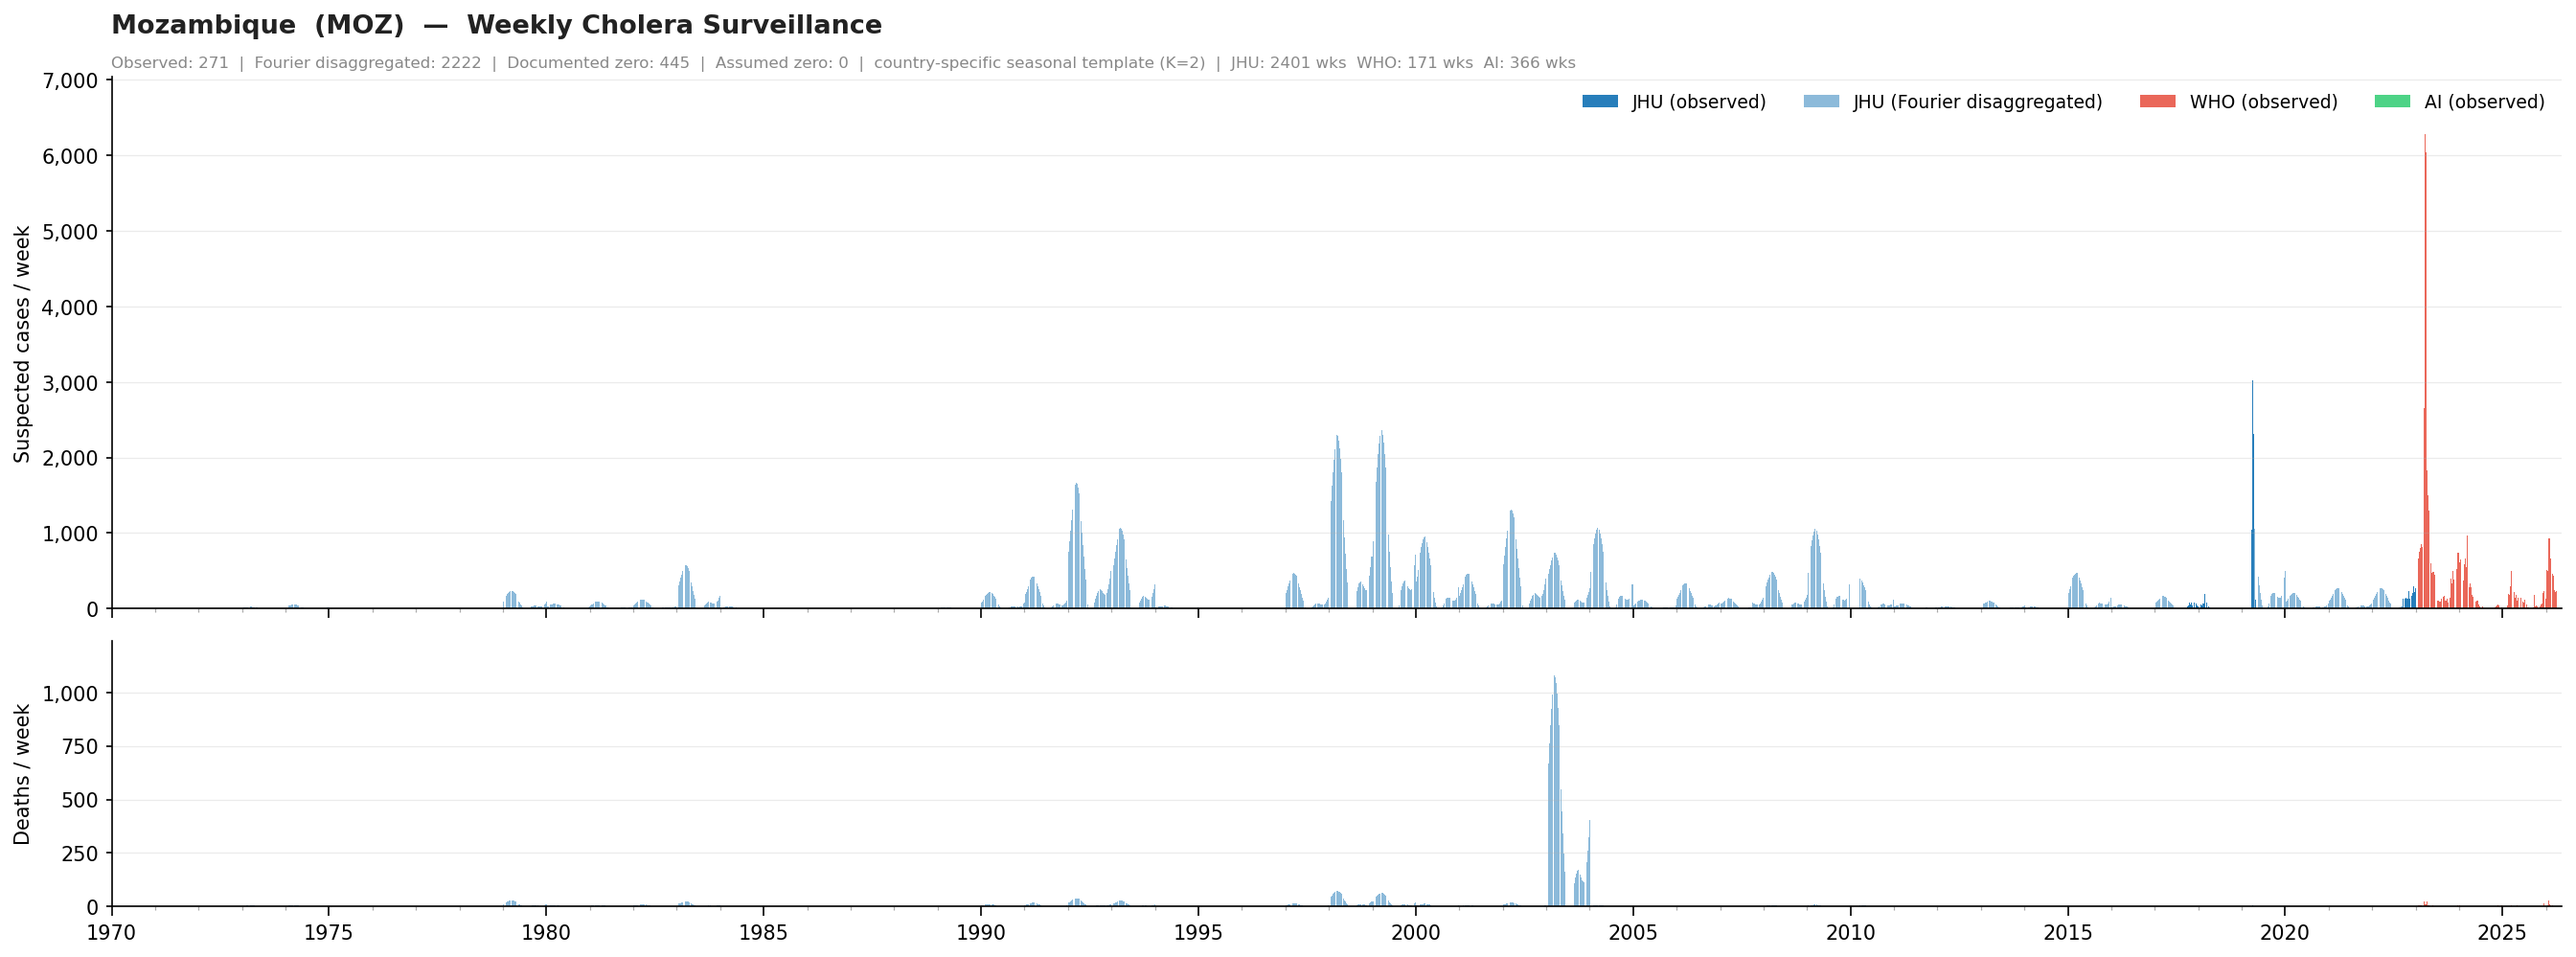
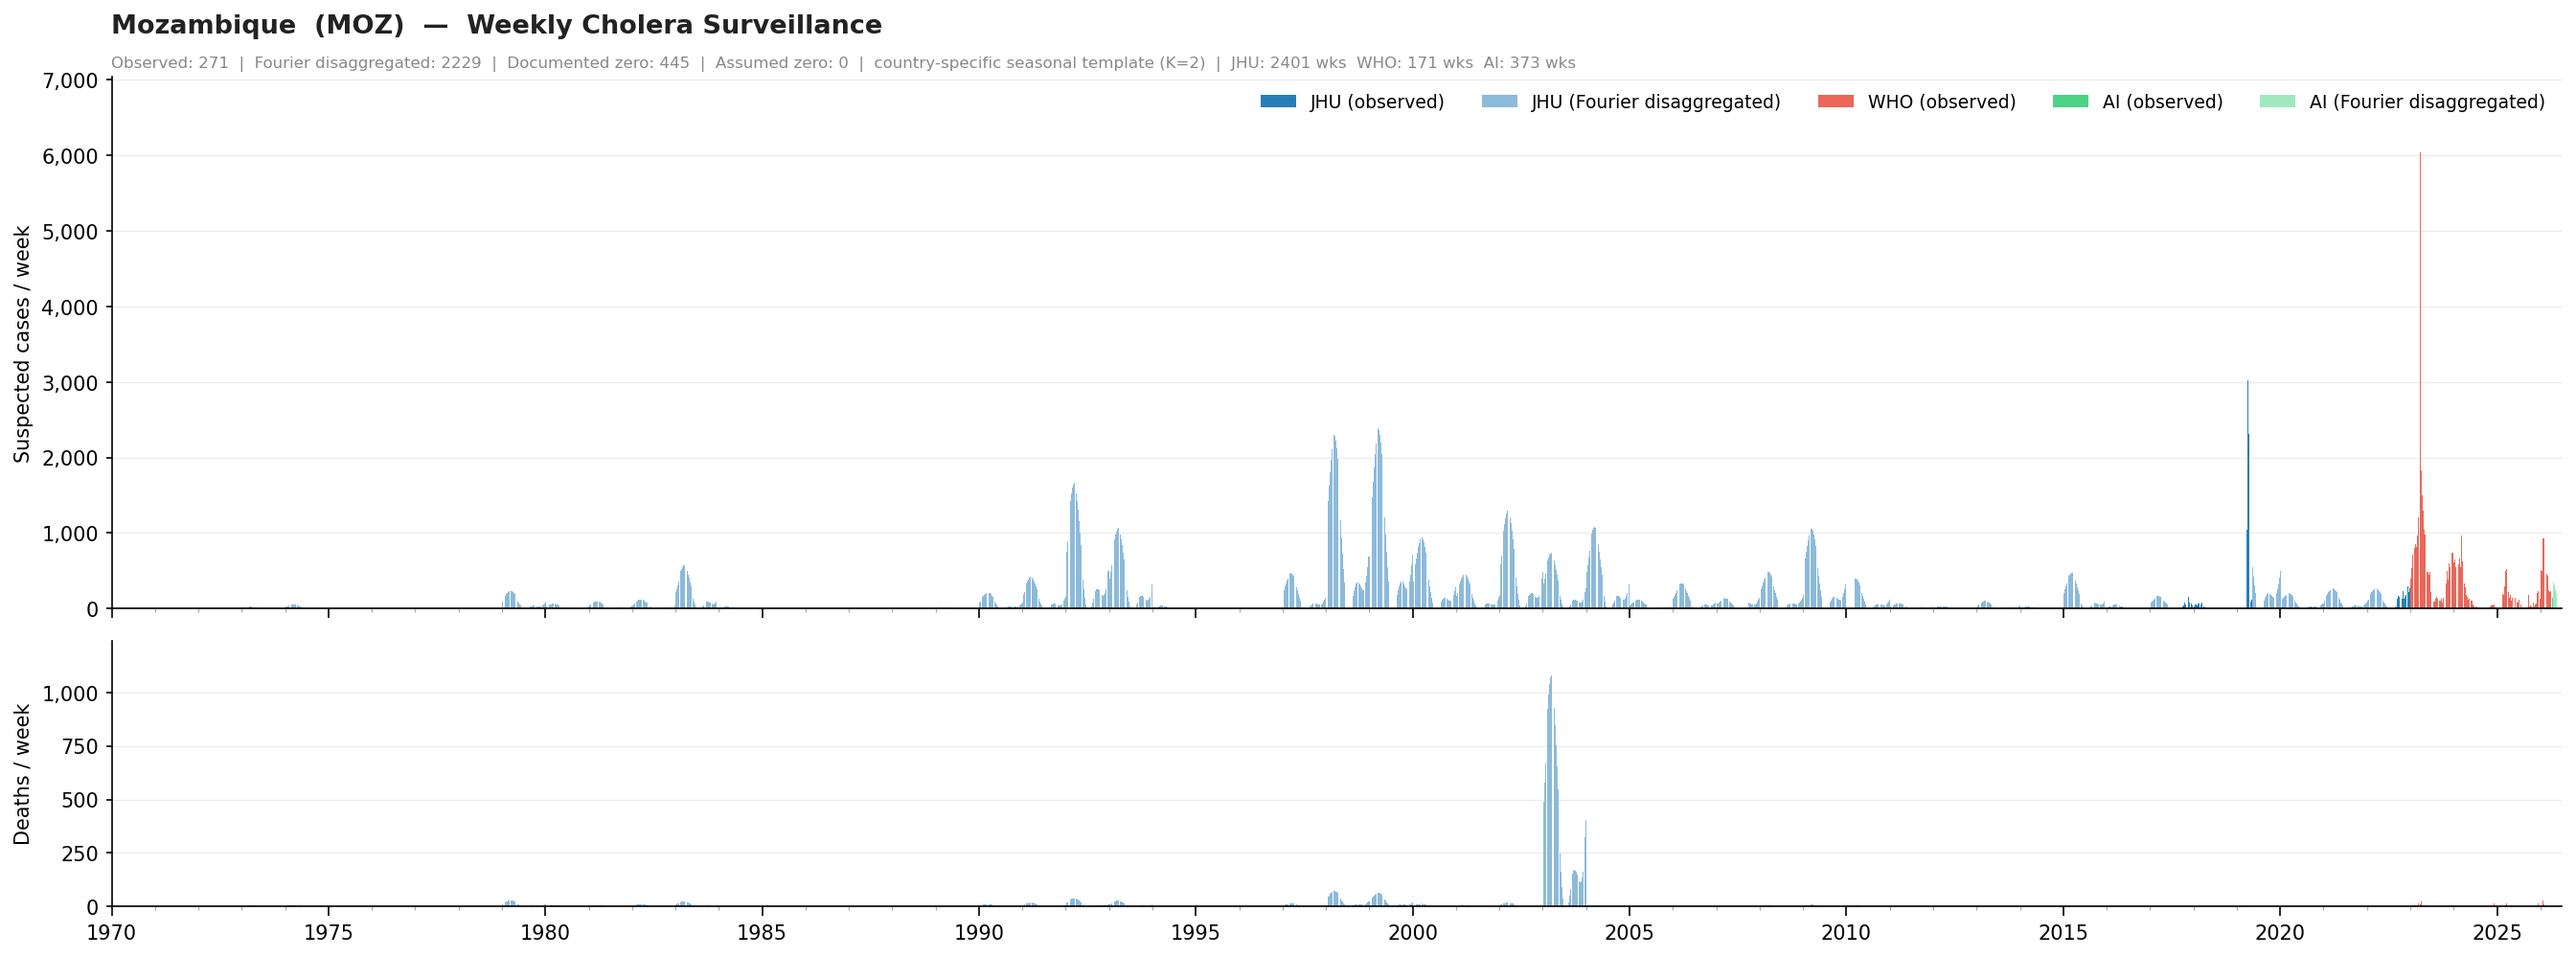
Auto-update dashboard data - 2026-06-18 13:03:56 - Generated with Claude Code

diff --git a/dashboard/dashboard.html b/dashboard/dashboard.html
@@ -2863,46 +2863,46 @@
         
         // Embedded completion checklist CSV data
         const completionChecklistCSV = `country,iso,status,datetime,sources,observations,date_range,priority,execution_time,queries,yield_pct
-Angola,AGO,COMPLETED,2026-05-15 16:57:40,30,65,1974-2025,LOW,3,12,491.7
-Burundi,BDI,COMPLETED,2026-05-15 16:57:46,4,10,1970-2020,HIGH,0,0,
-Benin,BEN,COMPLETED,2026-05-15 16:57:46,7,16,1970-2022,MEDIUM,0,0,
-Burkina Faso,BFA,COMPLETED,2026-05-15 16:57:46,13,28,1971-2025,MEDIUM,5,17,141.2
-Botswana,BWA,COMPLETED,2026-05-15 16:57:46,6,5,2008-2024,HIGH,1,5,300.0
-Central African Republic,CAF,COMPLETED,2026-05-15 16:57:46,8,9,1997-2025,HIGH,6,20,105.0
-Côte d'Ivoire,CIV,COMPLETED,2026-05-14 18:05:12,10,11,1995-2025,HIGH,0,0,
-Cameroon,CMR,COMPLETED,2026-05-15 16:57:46,19,20,2004-2024,MEDIUM,0,0,
-Democratic Republic of Congo,COD,COMPLETED,2026-05-15 16:37:06,17,15,1970-2025,MEDIUM,0,0,
-Congo,COG,COMPLETED,2026-05-15 16:57:46,9,15,2000-2025,MEDIUM,0,0,
-Eritrea,ERI,COMPLETED,2026-05-13 15:23:03,0,0,,,0,0,
-Ethiopia,ETH,COMPLETED,2026-05-15 16:36:21,13,32,1972-2024,LOW,1,4,550.0
-Gabon,GAB,COMPLETED,2026-05-15 16:57:46,10,8,1970-2025,HIGH,0,0,
-Ghana,GHA,COMPLETED,2026-05-15 16:57:46,26,35,1986-2025,LOW,0,1,2400.0
-Guinea,GIN,COMPLETED,2026-05-14 20:25:03,10,11,1986-2025,HIGH,0,0,
-Gambia,GMB,COMPLETED,2026-05-14 20:51:13,6,3,1869-2024,HIGH,0,0,
-Guinea-Bissau,GNB,COMPLETED,2026-05-15 16:57:46,17,22,1986-2025,MEDIUM,1,6,100.0
-Equatorial Guinea,GNQ,COMPLETED,2026-05-15 17:58:35,5,6,1980-2025,HIGH,0,1,1900.0
-Kenya,KEN,COMPLETED,2026-05-15 16:57:46,23,45,1971-2030,LOW,1,5,1140.0
-Liberia,LBR,COMPLETED,2026-05-15 16:57:46,8,11,2002-2011,HIGH,0,0,
-Mali,MLI,COMPLETED,2026-05-15 10:48:18,12,30,1984-2025,LOW,0,0,
-Mozambique,MOZ,COMPLETED,2026-05-15 11:12:21,16,37,1970-2026,LOW,4,16,306.2
-Mauritania,MRT,COMPLETED,2026-05-15 16:57:46,7,8,2005-2025,HIGH,2,7,342.9
-Malawi,MWI,COMPLETED,2026-05-15 16:37:09,26,28,1973-2024,MEDIUM,0,3,666.7
-Namibia,NAM,COMPLETED,2026-05-15 11:37:20,15,12,2006-2026,HIGH,0,0,
-Niger,NER,COMPLETED,2026-05-15 16:57:46,26,31,1998-2024,LOW,0,0,
-Nigeria,NGA,COMPLETED,2026-05-15 16:57:46,20,28,1982-2024,MEDIUM,0,1,900.0
-Rwanda,RWA,COMPLETED,2026-05-15 12:06:46,11,11,1991-2026,HIGH,0,0,
-Senegal,SEN,COMPLETED,2026-05-15 16:57:46,20,28,1972-2025,MEDIUM,0,0,
-Sierra Leone,SLE,COMPLETED,2026-05-15 16:57:46,22,19,1970-2024,MEDIUM,0,2,950.0
-Somalia,SOM,COMPLETED,2026-05-15 16:57:46,23,23,1985-2025,MEDIUM,0,0,
-South Sudan,SSD,COMPLETED,2026-05-15 13:56:13,19,48,1970-2026,LOW,0,0,
-Eswatini,SWZ,COMPLETED,2026-05-15 14:31:47,8,8,2010-2025,HIGH,0,0,
-Chad,TCD,COMPLETED,2026-05-15 16:36:43,12,15,2001-2019,MEDIUM,0,0,
-Togo,TGO,COMPLETED,2026-05-15 16:57:46,11,9,1970-2023,HIGH,0,0,
-Tanzania,TZA,COMPLETED,2026-05-14 09:48:43,11,19,1977-2025,MEDIUM,0,0,
-Uganda,UGA,COMPLETED,2026-05-15 16:57:46,30,46,1970-2025,LOW,0,0,
-South Africa,ZAF,COMPLETED,2026-05-15 16:57:46,31,60,1970-2026,LOW,0,0,
-Zambia,ZMB,COMPLETED,2026-05-15 16:57:46,19,24,1970-2026,MEDIUM,22,75,29.3
-Zimbabwe,ZWE,COMPLETED,2026-05-14 13:59:21,12,30,1973-2025,LOW,0,0,`;
+Angola,AGO,COMPLETED,2026-05-15 06:57:40,30,65,1974-2025,LOW,3,12,491.7
+Burundi,BDI,COMPLETED,2026-05-15 06:57:46,4,10,1970-2020,HIGH,0,0,
+Benin,BEN,COMPLETED,2026-05-15 06:57:46,7,16,1970-2022,MEDIUM,0,0,
+Burkina Faso,BFA,COMPLETED,2026-05-15 06:57:46,13,28,1971-2025,MEDIUM,5,17,141.2
+Botswana,BWA,COMPLETED,2026-05-15 06:57:46,6,5,2008-2024,HIGH,1,5,300.0
+Central African Republic,CAF,COMPLETED,2026-05-15 06:57:46,8,9,1997-2025,HIGH,6,20,105.0
+Côte d'Ivoire,CIV,COMPLETED,2026-05-14 08:05:12,10,11,1995-2025,HIGH,0,0,
+Cameroon,CMR,COMPLETED,2026-05-15 06:57:46,19,20,2004-2024,MEDIUM,0,0,
+Democratic Republic of Congo,COD,COMPLETED,2026-05-15 06:37:06,17,15,1970-2025,MEDIUM,0,0,
+Congo,COG,COMPLETED,2026-05-15 06:57:46,9,15,2000-2025,MEDIUM,0,0,
+Eritrea,ERI,COMPLETED,2026-05-13 05:23:03,0,0,,,0,0,
+Ethiopia,ETH,COMPLETED,2026-05-15 06:36:21,13,32,1972-2024,LOW,1,4,550.0
+Gabon,GAB,COMPLETED,2026-05-15 06:57:46,10,8,1970-2025,HIGH,0,0,
+Ghana,GHA,COMPLETED,2026-05-15 06:57:46,26,35,1986-2025,LOW,0,1,2400.0
+Guinea,GIN,COMPLETED,2026-05-14 10:25:03,10,11,1986-2025,HIGH,0,0,
+Gambia,GMB,COMPLETED,2026-05-14 10:51:13,6,3,1869-2024,HIGH,0,0,
+Guinea-Bissau,GNB,COMPLETED,2026-05-15 06:57:46,17,22,1986-2025,MEDIUM,1,6,100.0
+Equatorial Guinea,GNQ,COMPLETED,2026-05-15 07:58:35,5,6,1980-2025,HIGH,0,1,1900.0
+Kenya,KEN,COMPLETED,2026-05-15 06:57:46,23,45,1971-2030,LOW,1,5,1140.0
+Liberia,LBR,COMPLETED,2026-05-15 06:57:46,8,11,2002-2011,HIGH,0,0,
+Mali,MLI,COMPLETED,2026-05-15 00:48:18,12,30,1984-2025,LOW,0,0,
+Mozambique,MOZ,COMPLETED,2026-06-18 12:55:39,18,50,1970-2026,LOW,4,16,306.2
+Mauritania,MRT,COMPLETED,2026-05-15 06:57:46,7,8,2005-2025,HIGH,2,7,342.9
+Malawi,MWI,COMPLETED,2026-05-15 06:37:09,26,28,1973-2024,MEDIUM,0,3,666.7
+Namibia,NAM,COMPLETED,2026-05-15 01:37:20,15,12,2006-2026,HIGH,0,0,
+Niger,NER,COMPLETED,2026-05-15 06:57:46,26,31,1998-2024,LOW,0,0,
+Nigeria,NGA,COMPLETED,2026-05-15 06:57:46,20,28,1982-2024,MEDIUM,0,1,900.0
+Rwanda,RWA,COMPLETED,2026-05-15 02:06:46,11,11,1991-2026,HIGH,0,0,
+Senegal,SEN,COMPLETED,2026-05-15 06:57:46,20,28,1972-2025,MEDIUM,0,0,
+Sierra Leone,SLE,COMPLETED,2026-05-15 06:57:46,22,19,1970-2024,MEDIUM,0,2,950.0
+Somalia,SOM,COMPLETED,2026-05-15 06:57:46,23,23,1985-2025,MEDIUM,0,0,
+South Sudan,SSD,COMPLETED,2026-05-15 03:56:13,19,48,1970-2026,LOW,0,0,
+Eswatini,SWZ,COMPLETED,2026-05-15 04:31:47,8,8,2010-2025,HIGH,0,0,
+Chad,TCD,COMPLETED,2026-05-15 06:36:43,12,15,2001-2019,MEDIUM,0,0,
+Togo,TGO,COMPLETED,2026-05-15 06:57:46,11,9,1970-2023,HIGH,0,0,
+Tanzania,TZA,COMPLETED,2026-05-13 23:48:43,11,19,1977-2025,MEDIUM,0,0,
+Uganda,UGA,COMPLETED,2026-05-15 06:57:46,30,46,1970-2025,LOW,0,0,
+South Africa,ZAF,COMPLETED,2026-05-15 06:57:46,31,60,1970-2026,LOW,0,0,
+Zambia,ZMB,COMPLETED,2026-05-15 06:57:46,19,24,1970-2026,MEDIUM,22,75,29.3
+Zimbabwe,ZWE,COMPLETED,2026-05-14 03:59:21,12,30,1973-2025,LOW,0,0,`;
         
         // Parse completion checklist CSV to build countryData array
         function parseChecklistToCountryData() {
@@ -3230,6 +3230,8 @@ Zimbabwe,ZWE,COMPLETED,2026-05-14 13:59:21,12,30,1973-2025,LOW,0,0,`;
 14,WHO DON Cholera Mozambique 1998,https://www.who.int/emergencies/disease-outbreak-news/item/1998_02_10a-en,WHO Disease Outbreak News February 10 1998: Mozambique cholera outbreak began in Beira two weeks prior. Approximately 2000 cases and 109 deaths as of Feb 9 1998. CFR ~5.5%. Ministry of Health with WHO and other organizations responding.,1998-01-01 to 1998-02-09,WHO Disease Outbreak News,Active,Level 1,Validated,WebSearch + WebFetch,English,Primary,WHO Geneva,Direct Search,AI
 15,PubMed - Hospital Cholera Outbreak Maputo 1986,https://pubmed.ncbi.nlm.nih.gov/3798545/,Hospital cholera outbreak in pediatric unit in Maputo Mozambique 1986. CFR 30% in infants. Duration 4 months. Multiply drug-resistant strain. Published Trans R Soc Trop Med Hyg 1986;80(3):473-476.,1985-01-01 to 1986-01-01,Academic Study,Active,Level 1,Validated,WebSearch,English,Primary,Transactions Royal Society Trop Med,Direct Search,AI
 16,PubMed - Cholera Cyclone Kenneth Northern Mozambique 2019,https://pubmed.ncbi.nlm.nih.gov/31443180/,Academic study of cholera outbreak due to Cyclone Kenneth in Cabo Delgado province northern Mozambique 2019. 267 total cases in three districts (Pemba Metuge Mecufi) no deaths. Published MDPI Int J Environ Res Public Health 2019;16(16):2925.,2019-05-02 to 2019-06-15,Academic Study,Active,Level 1,Validated,WebSearch,English,Primary,MDPI/PubMed,Direct Search,AI
+17,Mozambique MoH DNSP - Boletim Diario da Colera No 263 (07-06-2026),https://reliefweb.int/report/mozambique/boletim-diario-da-colera-data-07062026-pt,"Mozambique Ministry of Health (Direccao Nacional da Saude Publica) Daily Cholera Bulletin No 263 dated 07/06/2026. Cumulative 03/09/2025-06/06/2026: 9092 cases, 86 deaths, CFR 0.9%. Provincial cumulative: Nampula 3937/39, Tete 2943/33, Cabo Delgado 1137/8, Sofala 595/1, Manica 331/3, Zambezia 146/2, Gaza 1/0, Maputo Provincia 1/0. Single-page government infographic; figures read from ReliefWeb document preview image.",2025-09-03 to 2026-06-06,Government Daily Surveillance Bulletin,Active,Level 1,Validated,Direct URL + ReliefWeb preview image read,Portuguese,Primary,MISAU/DNSP official; supersedes AMAN (idx 5) and Xinhua (idx 4) interim snapshots,User-provided URL,AI
+18,Mozambique MoH DNSP - Boletim Diario da Colera No 144 (08-02-2026),https://beacon-media-bucket-prod.s3.us-east-1.amazonaws.com/c194e05d-f7f2-4fa9-9376-49454ad45b78,"Mozambique Ministry of Health (Direccao Nacional da Saude Publica) Daily Cholera Bulletin No 144 dated 08/02/2026. Cumulative 03/09/2025-07/02/2026: 4621 cases, 62 deaths (18 intra-hospital, 44 community), CFR 1.3%. Provincial cumulative: Nampula 1961/23, Tete 1781/28, Cabo Delgado 750/8, Zambezia 72/1, Manica 57/2; Niassa/Sofala/Gaza/Inhambane/Maputo Cidade/Maputo Provincia 0. Single-page government infographic (PDF). Intermediate snapshot of the 2025-26 wave - primary government source for the 07 Feb 2026 timepoint.",2025-09-03 to 2026-02-07,Government Daily Surveillance Bulletin,Active,Level 1,Validated,Direct URL (S3 PDF) read,Portuguese,Primary,"MISAU/DNSP official; intermediate snapshot, cf. Boletim 263 (idx 17), AMAN (idx 5), Xinhua (idx 4)",User-provided URL,AI
 `,
             'TGO': `Index,Source,URL,Description,Date_Range,Data_Type,Status,Reliability_Level,Validation_Status,Search_Technique,Language_Original,Citation_Depth,Cross_References,Discovery_Method,source_database
 1,WHO Disease Outbreak News - Togo Cholera 2020,https://www.who.int/emergencies/disease-outbreak-news/item/cholera-togo,WHO official report on the 2020 Maritime/Lome cholera outbreak,2020-09-01 to 2020-12-31,Outbreak Report,Verified,Level 1,PASS,WHO official surveillance,English,High,Multi-source,Agent 1 systematic search,AI
@@ -4033,6 +4035,19 @@ Zimbabwe,ZWE,COMPLETED,2026-05-14 13:59:21,12,30,1973-2025,LOW,0,0,`;
 35,AFR::MOZ::Cabo Delgado,2019-05-02,2019-06-15,,267,,0.0,2019-06-15,16,PubMed - Cholera Cyclone Kenneth Northern Mozambique 2019,0.85,"Source states: Cyclone Kenneth Cabo Delgado outbreak: 267 cases in three districts (Pemba 108 cases Metuge 19 Mecufi 10 plus others). No deaths reported. Outbreak declared May 2 2019. By mid-June 267 total cases. Published: MDPI Int J Environ Res Public Health 2019;16(16):2925 (PMID 31443180). Note: JHU has national 2019 data; this is a sub-national period breakdown for Cabo Delgado.",AI
 36,AFR::MOZ,2024-10-17,2025-05-31,58,3840,,1.5,2025-06-01,7,ICAP Columbia - Mozambique Cholera Response Cyclone Aftermath,0.85,"Source states: 'cholera outbreak remained active in five provinces: Nampula with five districts, Zambezia, Tete, Sofala and Manica provinces with one district each, with 3840 cumulative cases and 58 deaths reported between 17 October 2024 and 31 May 2025.' Sub-period of Oct 2024-Jul 2025 wave showing progress through May. Do not sum with national row 12 (full wave) - this is interim data.",AI
 37,AFR::MOZ::Sofala::Beira,1998-01-20,1998-02-09,109,2000,,5.5,1998-02-10,14,WHO DON Cholera Mozambique 1998,0.9,"Source states: 'The outbreak which began in the port city of Beira...around 2,000 cases and 109 deaths reported by February 9 1998.' CFR ~5.5% (109/2000). Outbreak began approximately 2 weeks prior to report (around Jan 20 1998). Location: Beira specifically cited as origin. Note: JHU annual data shows 1998 national total - this is sub-national/sub-period for Beira start of 1998 epidemic.",AI
+38,AFR::MOZ,2025-09-03,2026-06-06,86,9092,,0.9,2026-06-07,17,Mozambique MoH DNSP - Boletim Diario da Colera No 263 (07-06-2026),0.95,"Source (Boletim Diario da Colera No 263, Data 07/06/2026) states cumulative '(03/09/25 a 06/06/26) Total de Casos 9.092 ... Obitos 86 ... Tx de Letalidade Geral 0,9%' - interpreted as 9092 sCh cases and 86 deaths, national cumulative for the 2025-26 wave. PRIMARY national row for this outbreak: supersedes interim cumulative snapshots Index 15 (Xinhua, to 2026-02-20, 5661/71) and Index 18 (AMAN, to 2026-04-04, 8369/83) - same outbreak, do NOT sum with those or with provincial rows 39-44. Also includes Gaza (1 case, 0 deaths) and Maputo Provincia (1 case, 0 deaths) not given separate rows. Level 1 government (DNSP) source.",AI
+39,AFR::MOZ::Nampula,2025-09-03,2026-06-06,39,3937,,1.0,2026-06-07,17,Mozambique MoH DNSP - Boletim Diario da Colera No 263 (07-06-2026),0.95,"Source states provincial cumulative 'Nampula ... 3,937 ... Total obitos 39 ... 1,0%' - interpreted as 3937 sCh cases, 39 deaths. Provincial subset of national row 38 - do not sum.",AI
+40,AFR::MOZ::Tete,2025-09-03,2026-06-06,33,2943,,1.1,2026-06-07,17,Mozambique MoH DNSP - Boletim Diario da Colera No 263 (07-06-2026),0.95,"Source states 'Tete ... 2,943 ... Total obitos 33 ... 1,1%' - interpreted as 2943 sCh cases, 33 deaths. Provincial subset of national row 38 - do not sum.",AI
+41,AFR::MOZ::Cabo Delgado,2025-09-03,2026-06-06,8,1137,,0.7,2026-06-07,17,Mozambique MoH DNSP - Boletim Diario da Colera No 263 (07-06-2026),0.95,"Source states 'Cabo Delgado ... 1,137 ... Total obitos 8 ... 0,7%' - interpreted as 1137 sCh cases, 8 deaths. Provincial subset of national row 38 - do not sum.",AI
+42,AFR::MOZ::Sofala,2025-09-03,2026-06-06,1,595,,0.2,2026-06-07,17,Mozambique MoH DNSP - Boletim Diario da Colera No 263 (07-06-2026),0.95,"Source states 'Sofala ... 595 ... Total obitos 1 ... 0,2%' - interpreted as 595 sCh cases, 1 death. Provincial subset of national row 38 - do not sum.",AI
+43,AFR::MOZ::Manica,2025-09-03,2026-06-06,3,331,,0.9,2026-06-07,17,Mozambique MoH DNSP - Boletim Diario da Colera No 263 (07-06-2026),0.95,"Source states 'Manica ... 331 ... Total obitos 3 ... 0,9%' - interpreted as 331 sCh cases, 3 deaths. Provincial subset of national row 38 - do not sum.",AI
+44,AFR::MOZ::Zambezia,2025-09-03,2026-06-06,2,146,,1.4,2026-06-07,17,Mozambique MoH DNSP - Boletim Diario da Colera No 263 (07-06-2026),0.95,"Source states 'Zambezia ... 146 ... Total obitos 2 ... 1,4%' - interpreted as 146 sCh cases, 2 deaths. Provincial subset of national row 38 - do not sum.",AI
+45,AFR::MOZ,2025-09-03,2026-02-07,62,4621,,1.3,2026-02-08,18,Mozambique MoH DNSP - Boletim Diario da Colera No 144 (08-02-2026),0.95,"Source (Boletim Diario da Colera No 144, Data 08/02/2026) states cumulative '(03/09/25 a 07/02/26) Total de Casos 4.621 ... Obitos 62 ... Tx de Letalidade Geral 1,3%' (deaths: 18 intra-hospital + 44 community) - interpreted as 4621 sCh cases, 62 deaths. INTERMEDIATE cumulative snapshot of the 2025-26 wave (primary DNSP government source for the 07 Feb 2026 timepoint). Do NOT sum with other cumulative snapshots of this wave: Index 15 (to 2026-02-20), Index 18 (to 2026-04-04), Index 38 (to 2026-06-06), or with provincial rows 46-50. Note Sofala still 0 cases at this date (later 595 by June).",AI
+46,AFR::MOZ::Nampula,2025-09-03,2026-02-07,23,1961,,1.2,2026-02-08,18,Mozambique MoH DNSP - Boletim Diario da Colera No 144 (08-02-2026),0.95,"Source states 'Nampula ... 1961 ... Total obitos 23 ... 1,2%' - 1961 sCh cases, 23 deaths. Intermediate snapshot; provincial subset of national row 45 - do not sum.",AI
+47,AFR::MOZ::Tete,2025-09-03,2026-02-07,28,1781,,1.6,2026-02-08,18,Mozambique MoH DNSP - Boletim Diario da Colera No 144 (08-02-2026),0.95,"Source states 'Tete ... 1781 ... Total obitos 28 ... 1,6%' - 1781 sCh cases, 28 deaths. Intermediate snapshot; provincial subset of national row 45 - do not sum.",AI
+48,AFR::MOZ::Cabo Delgado,2025-09-03,2026-02-07,8,750,,1.1,2026-02-08,18,Mozambique MoH DNSP - Boletim Diario da Colera No 144 (08-02-2026),0.95,"Source states 'Cabo Delgado ... 750 ... Total obitos 8 ... 1,1%' - 750 sCh cases, 8 deaths. Intermediate snapshot; provincial subset of national row 45 - do not sum.",AI
+49,AFR::MOZ::Zambezia,2025-09-03,2026-02-07,1,72,,1.4,2026-02-08,18,Mozambique MoH DNSP - Boletim Diario da Colera No 144 (08-02-2026),0.95,"Source states 'Zambezia ... 72 ... Total obitos 1 ... 1,4%' - 72 sCh cases, 1 death. Intermediate snapshot; provincial subset of national row 45 - do not sum.",AI
+50,AFR::MOZ::Manica,2025-09-03,2026-02-07,2,57,,3.5,2026-02-08,18,Mozambique MoH DNSP - Boletim Diario da Colera No 144 (08-02-2026),0.9,"Source states 'Manica ... 57 ... Total obitos 2 ... 3,5%' - 57 sCh cases, 2 deaths. CFR 3.5% elevated due to small denominator (2/57). Intermediate snapshot; provincial subset of national row 45 - do not sum.",AI
 `,
             'TGO': `Index,Location,TL,TR,deaths,sCh,cCh,CFR,reporting_date,source_index,source,confidence_weight,processing_notes,source_database
 1,AFR::TGO,1970-01-01,1972-12-31,,,561,,1973-06-30,4,Africhol Consortium Proceedings (BMC Proceedings 2017),0.8,"Source states: 'Togo first reported cholera cases during the seventh pandemic El Tor wave reaching West Africa in 1970-1972 with 561 laboratory-confirmed cases' - interpreted as 561 cCh laboratory-confirmed cases over the 1970-1972 El Tor pandemic period. Historical context establishment for pre-surveillance era.",AI
